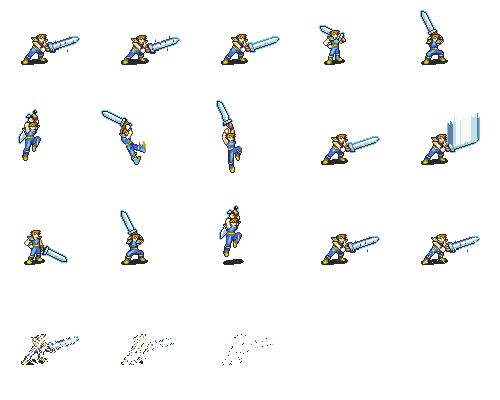
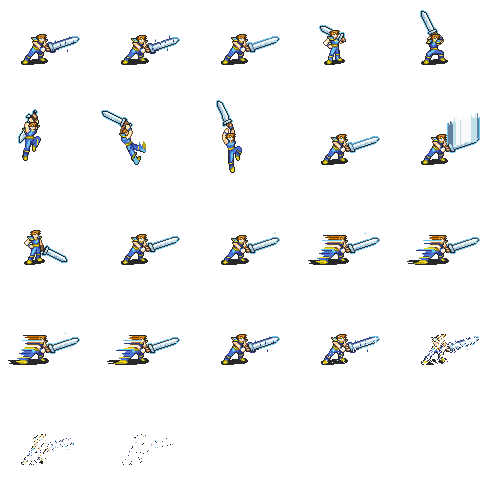
KangarooRemoved

diff --git a/Drakhtar/Structures/Game.cpp b/Drakhtar/Structures/Game.cpp
@@ -145,11 +145,11 @@ void Game::load() {
       ->addAnimation("death", {11, 12, 13, 14, 15})
       ->addAnimation("ability1", {16, 17, 18, 19, 20})
       ->setFlip(SDL_FLIP_HORIZONTAL);
-  textures->add("Units-BlueValar", "../images/Units/BlueValar.png", 5, 4)
+  textures->add("Units-BlueValar", "../images/Units/BlueValar.png", 5, 5)
       ->addAnimation("default", {0, 1})
       ->addAnimation("attack", {2, 3, 4, 5, 6, 7, 8, 9, 10})
-      ->addAnimation("walk", {11, 12}, 4)
-      ->addAnimation("death", {13, 14, 15, 16, 17});
+      ->addAnimation("walk", {11, 12, 13, 14, 15, 16}, 4)
+      ->addAnimation("death", {17, 18, 19, 20, 21});
   textures->add("Units-RedValar", "../images/Units/RedValar.png", 6, 5)
       ->addAnimation("default", {0, 1})
       ->addAnimation("attack", {2, 3, 4, 5, 6, 7, 8, 9, 10})
